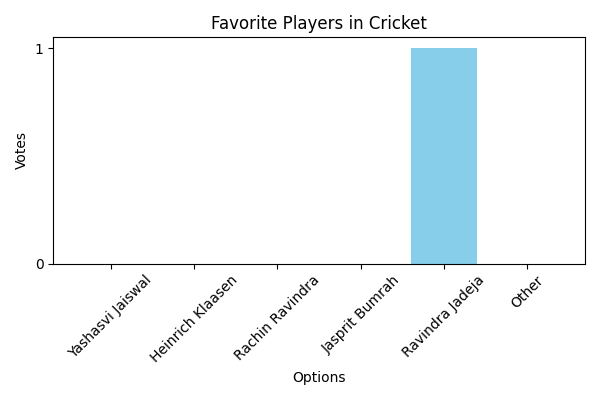
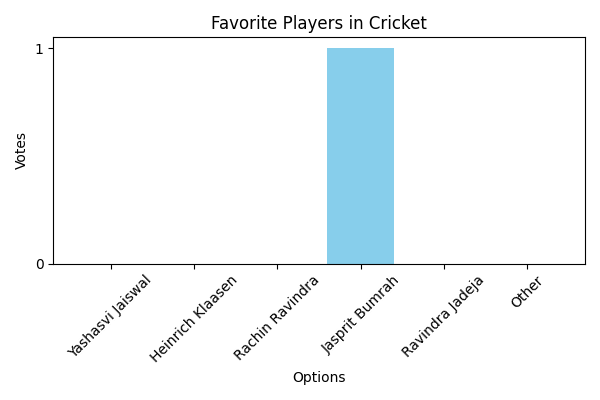
tried adding full path to generating chart

Changed region(s): [[0.54, 0.12, 0.81, 0.66]]

diff --git a/players_votes.py b/players_votes.py
@@ -1,1 +1,1 @@
-votes_players = {'Basketball': {'Lebron James': 0, 'Micheal Jordan': 0, 'Stephen Curry': 0, 'Kobe Bryant': 0, 'Shaq': 0, 'Other': 0}, 'Soccer': {'Saket': 0, 'Messi': 0, 'Ronaldo': 0, 'Neymar': 0, 'Mbappe': 0, 'Yamal': 0, 'Saka': 0, 'Other': 0}, 'Football': {'Tom Brady': 0, 'Jerry Rice': 0, 'Justin Jefferson Jr': 0, 'Tyreek Hill': 0, 'Deebo Samuel': 0, 'Other': 0}, 'Cricket': {'Yashasvi Jaiswal': 0, 'Heinrich Klaasen': 0, 'Rachin Ravindra': 0, 'Jasprit Bumrah': 0, 'Ravindra Jadeja': 0, 'Other': 0}}
+votes_players = {'Basketball': {'Lebron James': 0, 'Micheal Jordan': 0, 'Stephen Curry': 0, 'Kobe Bryant': 0, 'Shaq': 0, 'Other': 0}, 'Soccer': {'Saket': 0, 'Messi': 0, 'Ronaldo': 0, 'Neymar': 0, 'Mbappe': 0, 'Yamal': 0, 'Saka': 0, 'Other': 0}, 'Football': {'Tom Brady': 0, 'Jerry Rice': 0, 'Justin Jefferson Jr': 0, 'Tyreek Hill': 0, 'Deebo Samuel': 0, 'Other': 0}, 'Cricket': {'Yashasvi Jaiswal': 0, 'Heinrich Klaasen': 0, 'Rachin Ravindra': 0, 'Jasprit Bumrah': 1, 'Ravindra Jadeja': 0, 'Other': 0}}

diff --git a/app.py b/app.py
@@ -59,10 +59,10 @@ def poll_player(sport):
 
 @app.route("/results")
 def results():
-    generate_chart(votes_sports, "Favorite Sport", "static/sports_chart.png")
+    generate_chart(votes_sports, "Favorite Sport", "/home/Saket11/simple polling app/static/sports_chart.png")
     for sport in votes_players:
         generate_player_chart(sport)
-    return render_template("results.html", sports_chart="static/sports_chart.png", player_charts=[f"static/{sport}_player_chart.png" for sport in votes_players])
+    return render_template("results.html", sports_chart="/home/anilk/simple polling app/static/sports_chart.png", player_charts=[f"static/{sport}_player_chart.png" for sport in votes_players])
 
 if __name__ == "__main__":
     app.run(debug=True)

diff --git a/sports_votes.py b/sports_votes.py
@@ -1,1 +1,1 @@
-votes_sports = {'Basketball': 0, 'Soccer': 0, 'Football': 0, 'Cricket': 0}
+votes_sports = {'Basketball': 0, 'Soccer': 0, 'Football': 0, 'Cricket': 1}
